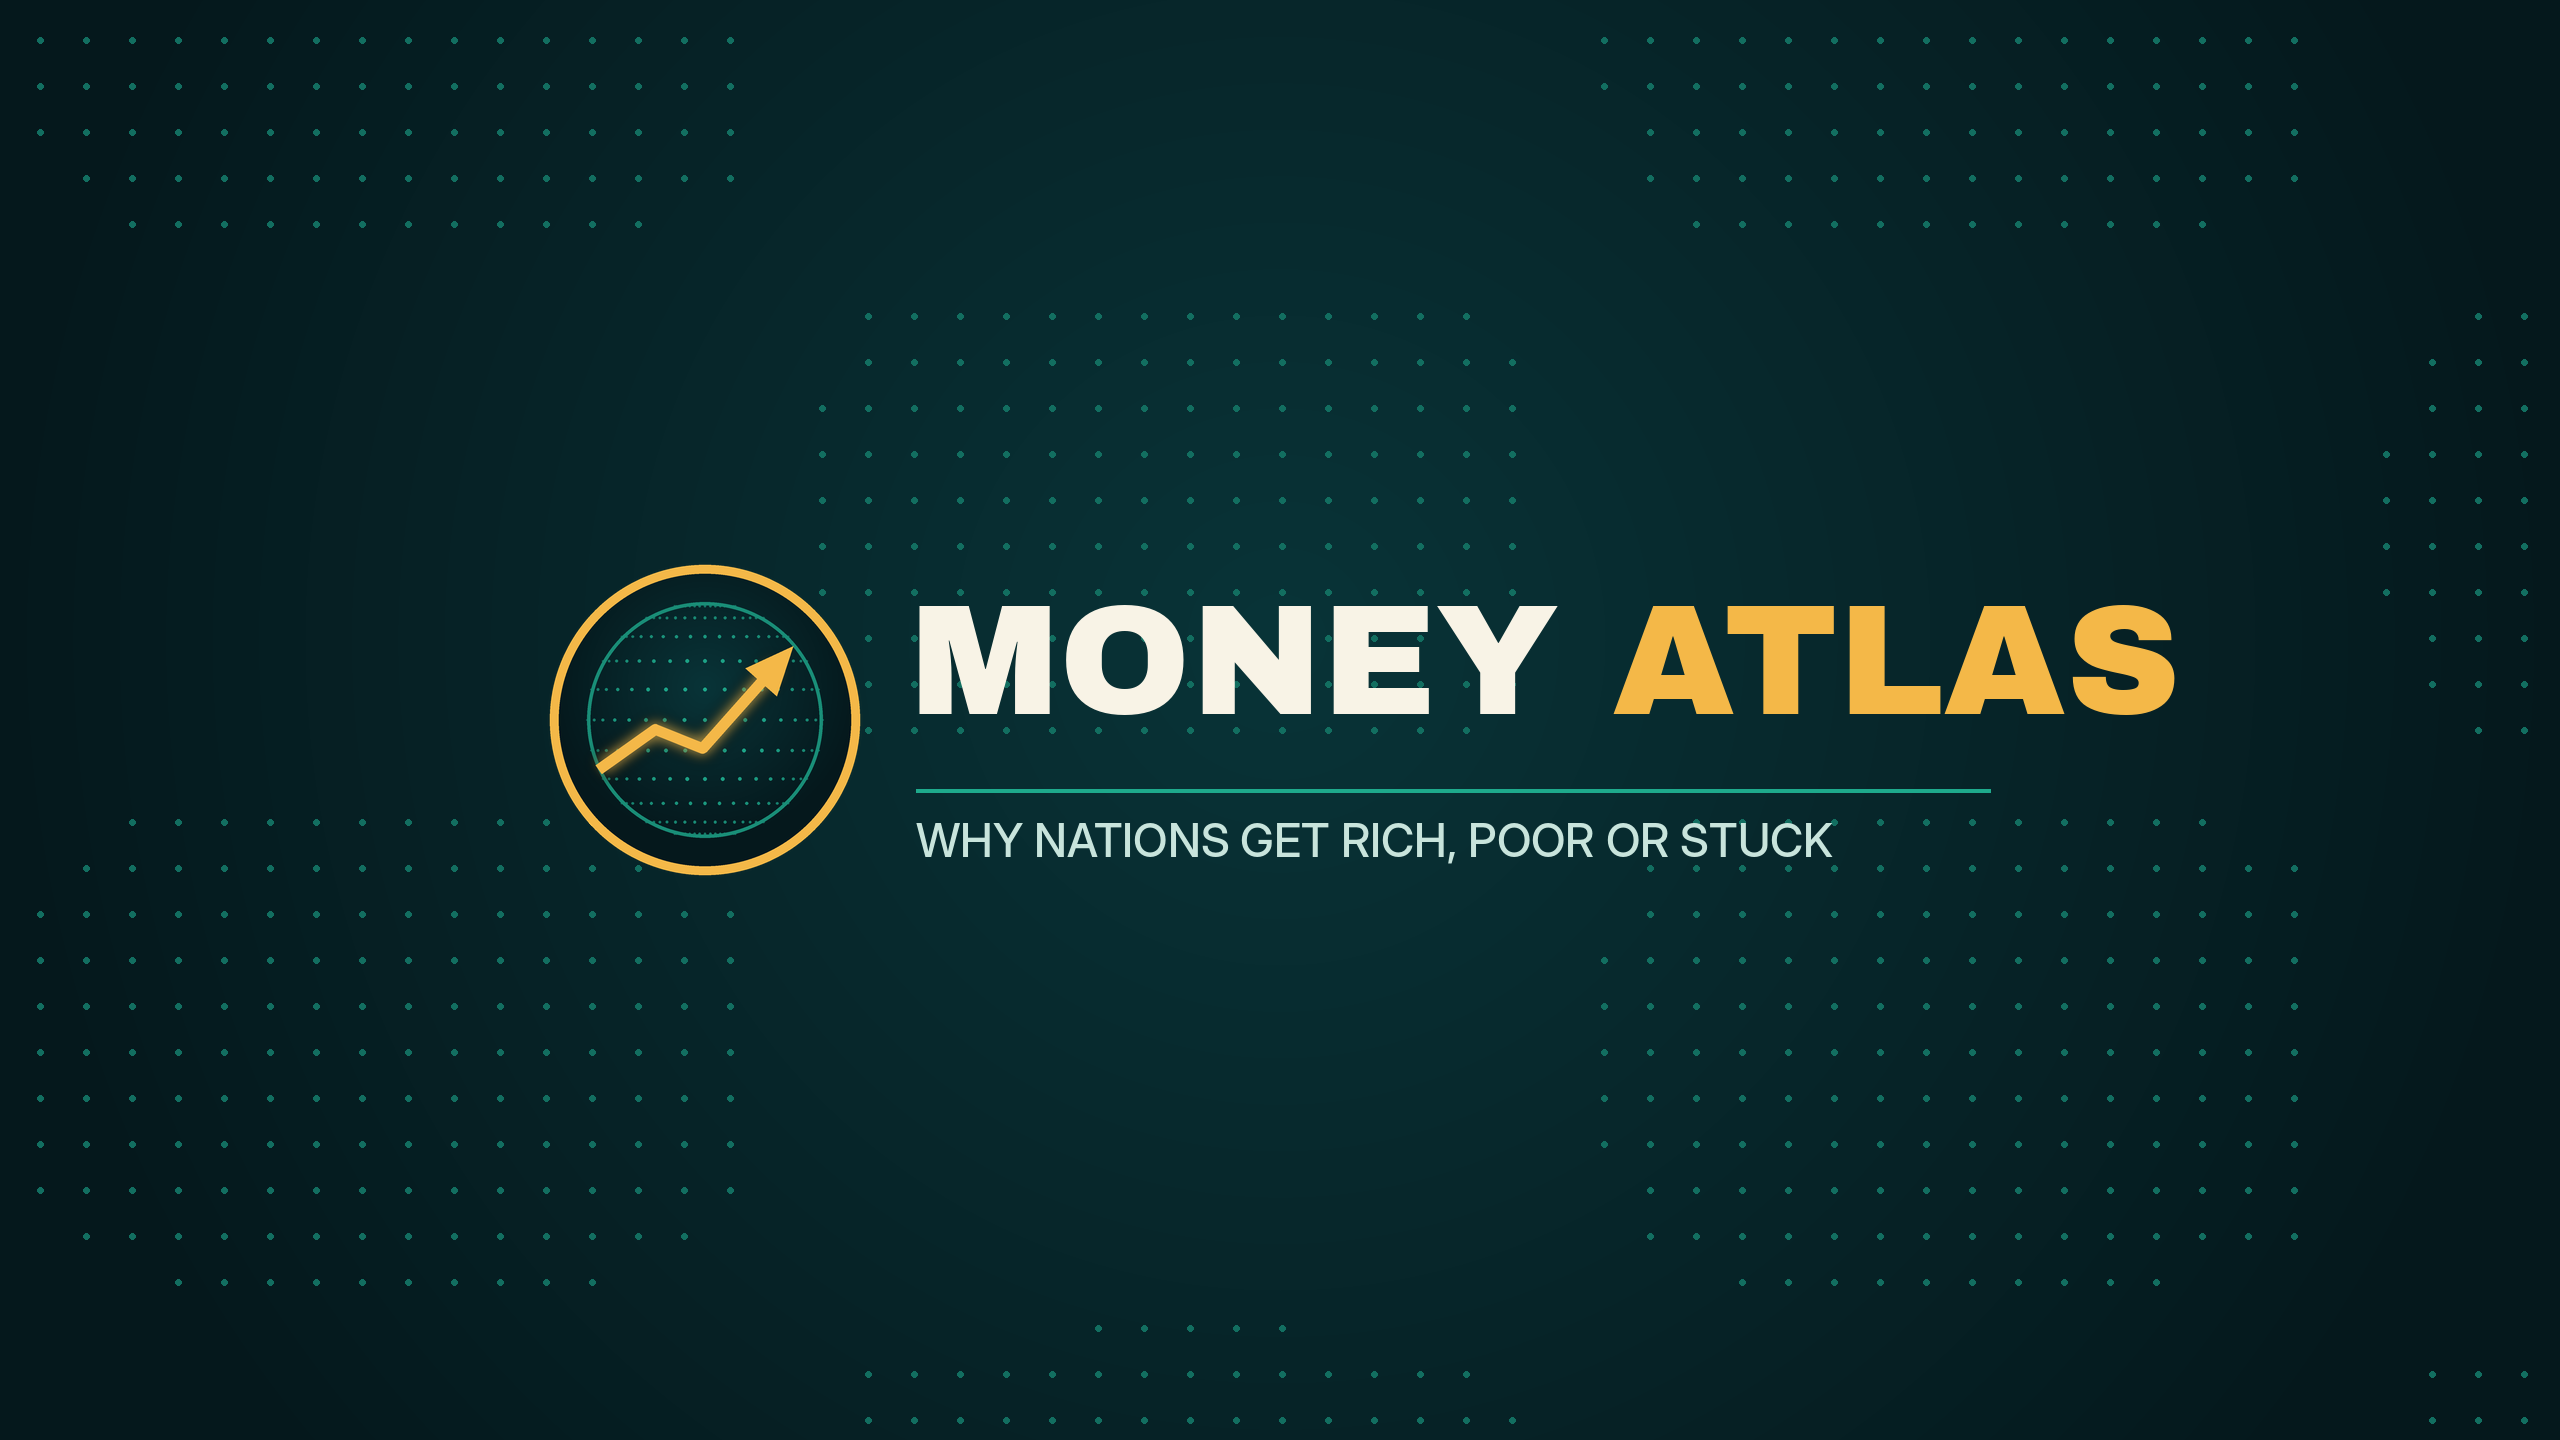
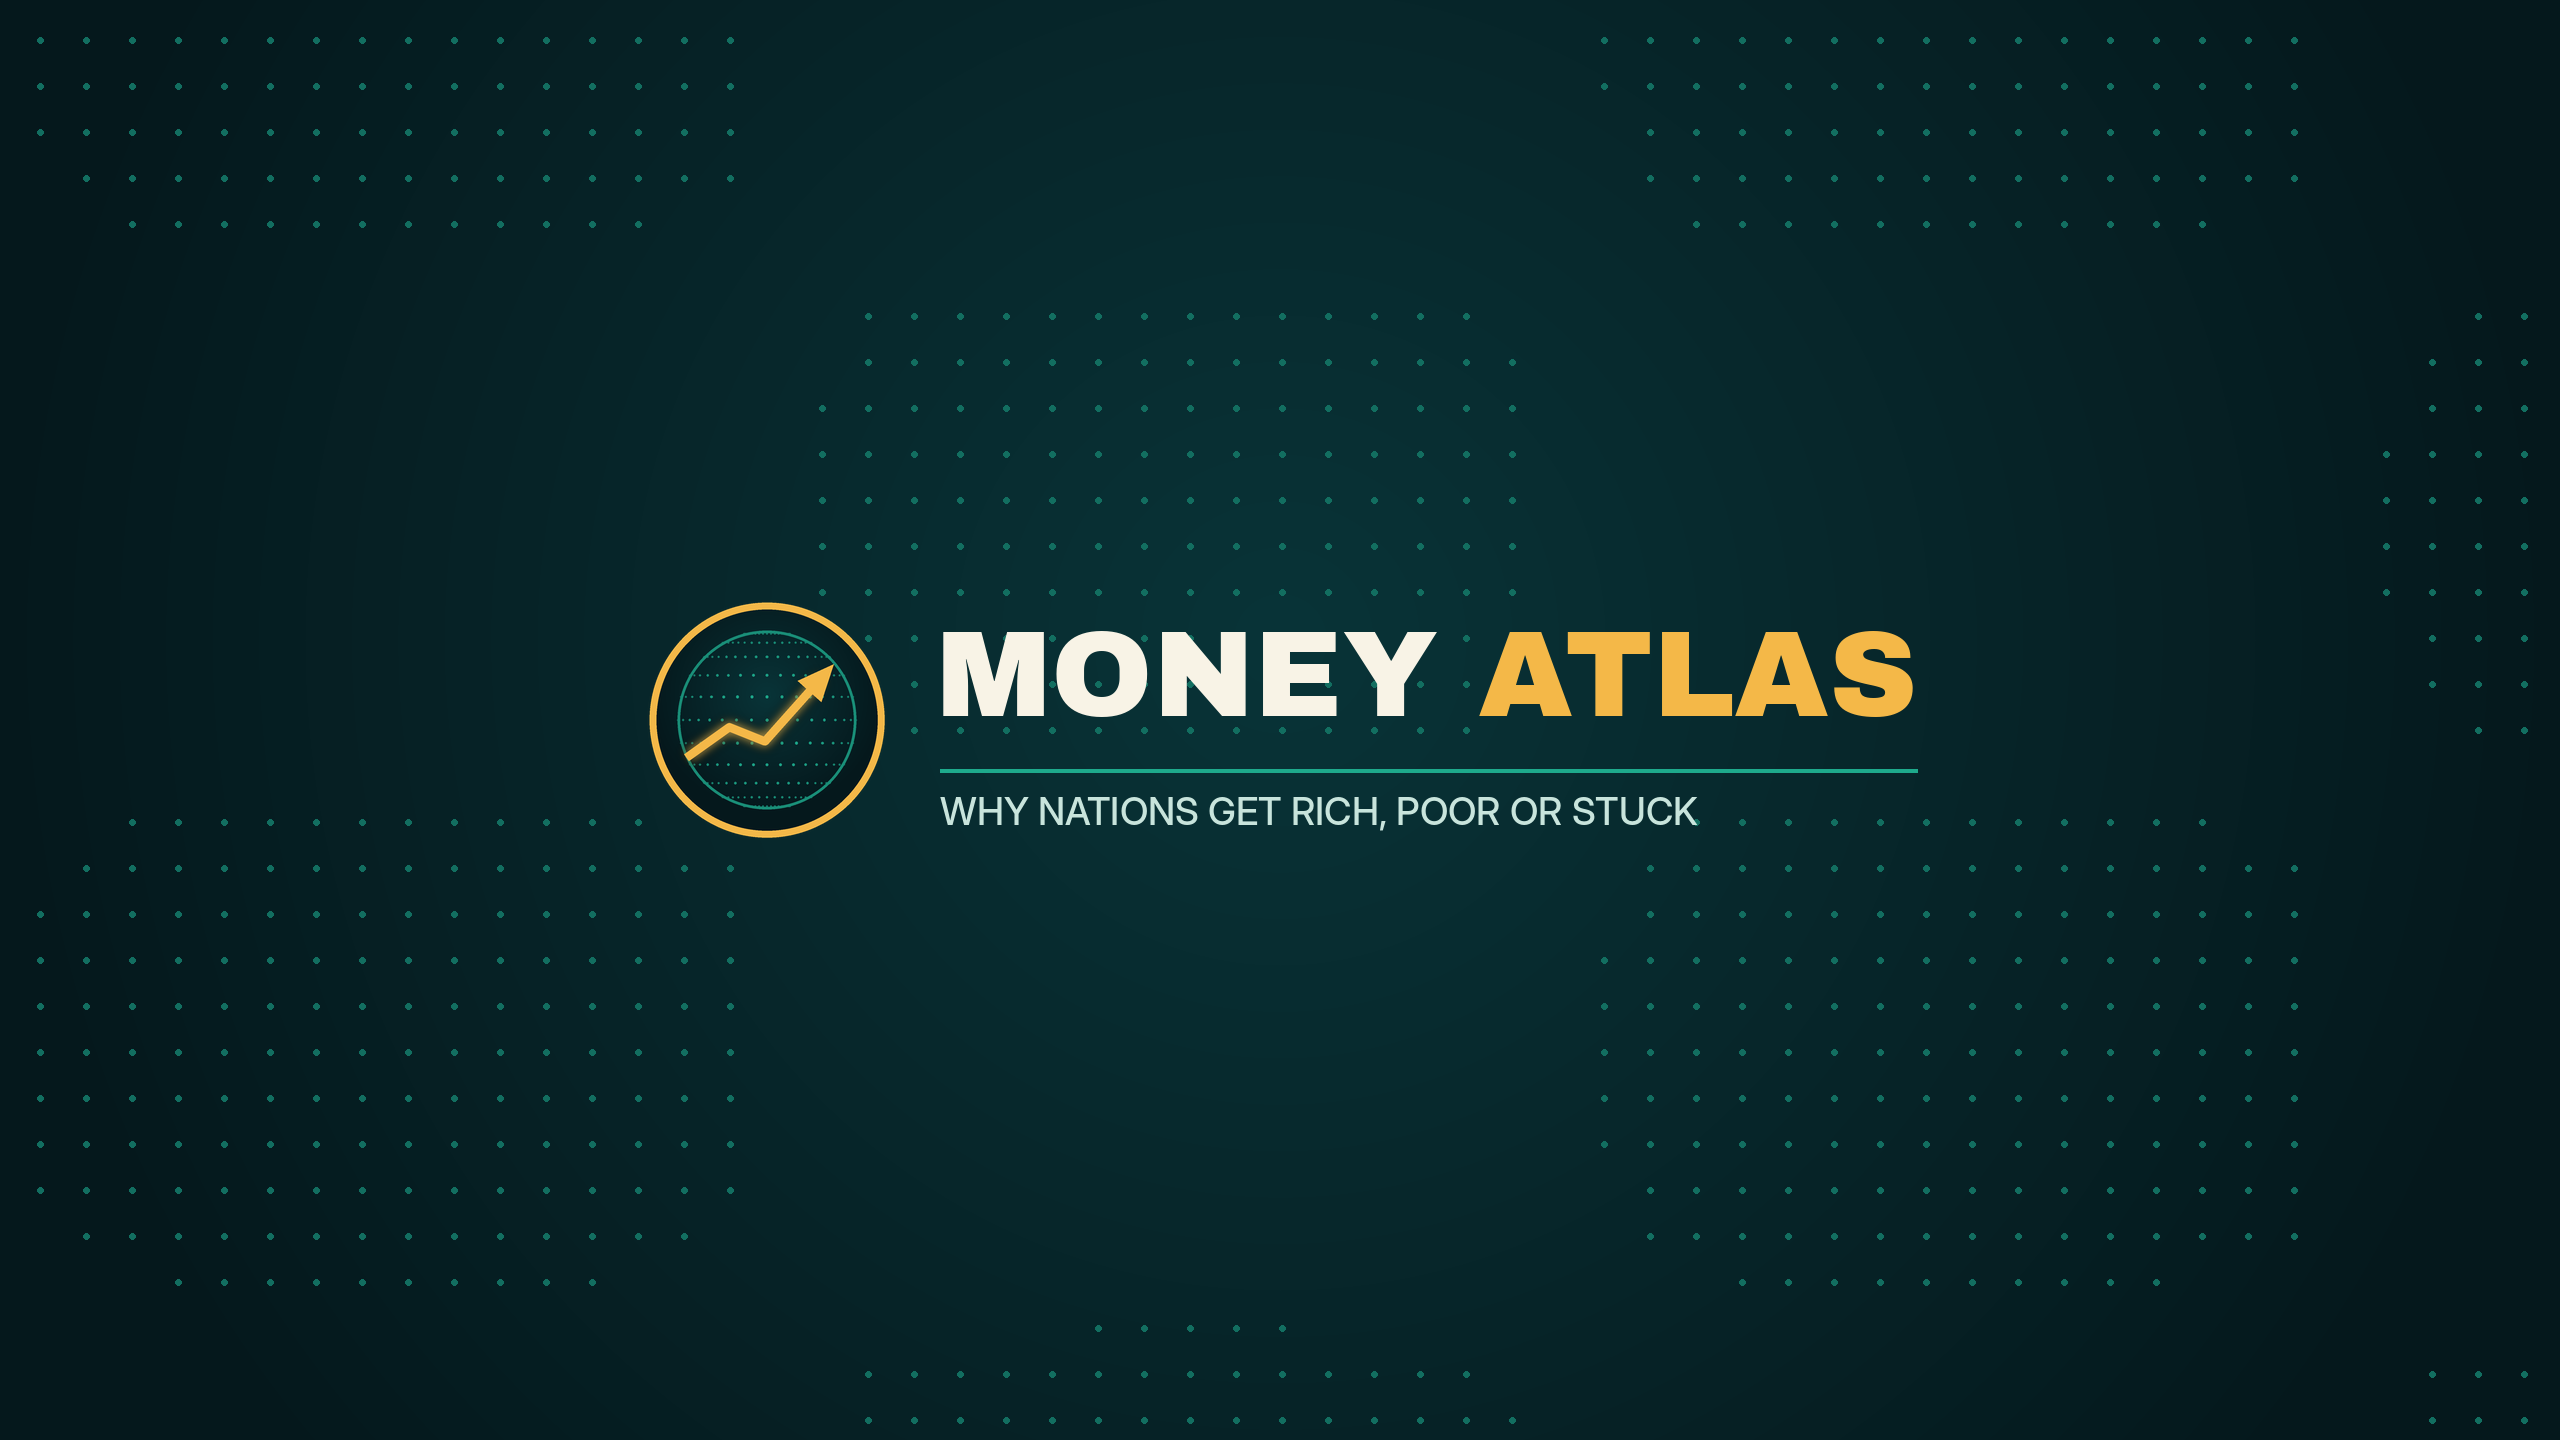
Money Atlas channel live: IDs, connection, brand v2 generator
Claude-Session: https://claude.ai/code/session_01T3UUYgrPnA38yKQcESCq7f

Changed region(s): [[0.1875, 0.375, 0.875, 0.625]]

diff --git a/money-atlas/brand/make_brand.py b/money-atlas/brand/make_brand.py
@@ -1,0 +1,47 @@
+"""MONEY ATLAS brand generator (v2: jade / gold / ivory). Writes icon, watermark and banner (content inside YouTube's 1546x423 safe area)."""
+from PIL import Image, ImageDraw, ImageFont, ImageFilter
+import math, numpy as np, os
+os.chdir(os.path.dirname(os.path.abspath(__file__)))
+BG1 = (5, 24, 28); BG2 = (9, 52, 56); JADE = (30, 170, 140); JADE2 = (18, 110, 96); GOLD = (244, 184, 72); IVORY = (248, 243, 230)
+FM = "/usr/share/fonts/opentype/inter/InterDisplay-Medium.otf"; AB = "/usr/share/fonts/truetype/google-fonts/ofl/archivoblack/ArchivoBlack-Regular.ttf"
+
+def grad(w, h, c1, c2, cx, cy, rad):
+    yy, xx = np.mgrid[0:h, 0:w]; d = np.clip(np.sqrt((xx - cx) ** 2 + (yy - cy) ** 2) / rad, 0, 1)[..., None]
+    return Image.fromarray((np.array(c2) * (1 - d) + np.array(c1) * d).astype(np.uint8))
+
+def emblem(S):
+    k = 4; s = S * k; im = Image.new("RGBA", (s, s), (0, 0, 0, 0)); c = s / 2; R = s * 0.47
+    g = grad(s, s, BG1, BG2, c, c * 0.8, R); m = Image.new("L", (s, s), 0); ImageDraw.Draw(m).ellipse([c - R, c - R, c + R, c + R], fill=255); im.paste(g, (0, 0), m)
+    d = ImageDraw.Draw(im); d.ellipse([c - R, c - R, c + R, c + R], outline=GOLD + (255,), width=int(s * 0.028))
+    r = R * 0.76; w = max(2, int(s * 0.011))
+    for lat in range(-75, 90, 15):
+        for lon in range(-180, 180, 10):
+            la, lo = math.radians(lat), math.radians(lon); x = math.cos(la) * math.sin(lo); z = math.cos(la) * math.cos(lo); y = math.sin(la)
+            if z < 0: continue
+            px, py = c + x * r, c - y * r; rr = s * 0.006 * (0.5 + 0.5 * z); d.ellipse([px - rr, py - rr, px + rr, py + rr], fill=JADE + (int(120 + 135 * z),))
+    d.ellipse([c - r, c - r, c + r, c + r], outline=JADE + (200,), width=w)
+    pts = [(c - r * 0.9, c + r * 0.42), (c - r * 0.42, c + r * 0.08), (c - r * 0.02, c + r * 0.24), (c + r * 0.62, c - r * 0.48)]
+    gl = Image.new("RGBA", (s, s), (0, 0, 0, 0)); ImageDraw.Draw(gl).line(pts, fill=GOLD + (160,), width=int(s * 0.07), joint="curve"); im.alpha_composite(gl.filter(ImageFilter.GaussianBlur(s * 0.02)))
+    d = ImageDraw.Draw(im); d.line(pts, fill=GOLD + (255,), width=int(s * 0.034), joint="curve")
+    tx, ty = pts[-1]; a = math.atan2(ty - pts[-2][1], tx - pts[-2][0]); L = s * 0.1
+    d.polygon([(tx + math.cos(a) * L * 0.7, ty + math.sin(a) * L * 0.7), (tx + math.cos(a + 2.45) * L, ty + math.sin(a + 2.45) * L), (tx + math.cos(a - 2.45) * L, ty + math.sin(a - 2.45) * L)], fill=GOLD + (255,))
+    return im.resize((S, S), Image.LANCZOS)
+
+if __name__ == "__main__":
+    ic = grad(800, 800, BG1, BG2, 400, 300, 600).convert("RGB"); e = emblem(720); ic.paste(e, (40, 40), e); ic.save("money_atlas_icon.png")
+    emblem(300).save("money_atlas_watermark.png"); emblem(150).save("money_atlas_watermark150.png")
+    W, H = 2560, 1440; b = grad(W, H, BG1, BG2, 1280, 640, 1300).convert("RGBA"); d = ImageDraw.Draw(b)
+    for y in range(40, H, 46):
+        for x in range(40, W, 46):
+            v = 0.5 + 0.5 * math.sin(x * 0.004) * math.cos(y * 0.006)
+            if v > 0.55: d.ellipse([x - 3, y - 3, x + 3, y + 3], fill=JADE2 + (int(70 * v),))
+    # safe area: x 507-2053, y 508-931  -> lay out emblem + text centred inside it
+    f1 = ImageFont.truetype(AB, 122); f2 = ImageFont.truetype(FM, 38)
+    tw = d.textlength("MONEY ATLAS", font=f1); ES = 250; gap = 44; total = ES + gap + tw; x0 = int(1280 - total / 2); yc = 720
+    e = emblem(ES); b.alpha_composite(e, (x0, yc - ES // 2))
+    tx = x0 + ES + gap; d = ImageDraw.Draw(b)
+    d.text((tx, yc - 112), "MONEY", font=f1, fill=IVORY); d.text((tx + d.textlength("MONEY ", font=f1), yc - 112), "ATLAS", font=f1, fill=GOLD)
+    d.line([(tx + 4, yc + 50), (tx + tw, yc + 50)], fill=JADE + (255,), width=4)
+    d.text((tx + 4, yc + 68), "WHY NATIONS GET RICH, POOR OR STUCK", font=f2, fill=(200, 228, 220))
+    b = b.convert("RGB"); b.save("money_atlas_banner.png"); b.save("money_atlas_banner.jpg", quality=92)
+    print("safe-area x:", x0, int(tx + tw), "(must be within 507..2053)")

diff --git a/money-atlas/CHANNEL.md b/money-atlas/CHANNEL.md
@@ -1,0 +1,8 @@
+# MONEY ATLAS — channel 2 (live since 21 Nov 2026)
+- YouTube channel ID: `UC3ZYJW2p2EZKc0HL_U-dvtw` (the former empty "Future AI Lab" channel on the owner's personal Google account, renamed 21 Nov 2026 by owner decision).
+- Handle: still `@futureailabs-y7x`. Change to a Money Atlas handle when YouTube allows (handle changes are limited to 2 per 14 days; every new handle was refused on 21 Nov). Retry after ~5 Dec 2026: try @MoneyAtlasTV / @TheMoneyAtlas / @MoneyAtlasHQ.
+- Tagline: WHY NATIONS GET RICH, POOR OR STUCK. Brand v2 colours: deep jade #05181C→#093438, jade #1EAA8C, gold #F4B848, ivory #F8F3E6. Generator: `money-atlas/brand/make_brand.py`.
+- Banner, profile picture, watermark, description, keywords, country PK, language en: set 21 Nov 2026.
+- Uploads: Zapier YouTube connection **"YouTube #2"** id `0240bad3-3a24-8795-8f07-bfc9eb0b9646` (Empire Stories stays on the default connection `02528681-…`). Always pass the right `connection_id`.
+- Style: same quality rules as Empire Stories (sourced facts, cinematic, story-driven sound), but its own look (dark map-room, jade/gold) and its own narrator voice, so the channels never look templated.
+- Episode 01 in research: "How Dubai Got Rich Without Oil" (fact sheet: `money-atlas/ep01/FACTS.md`).
